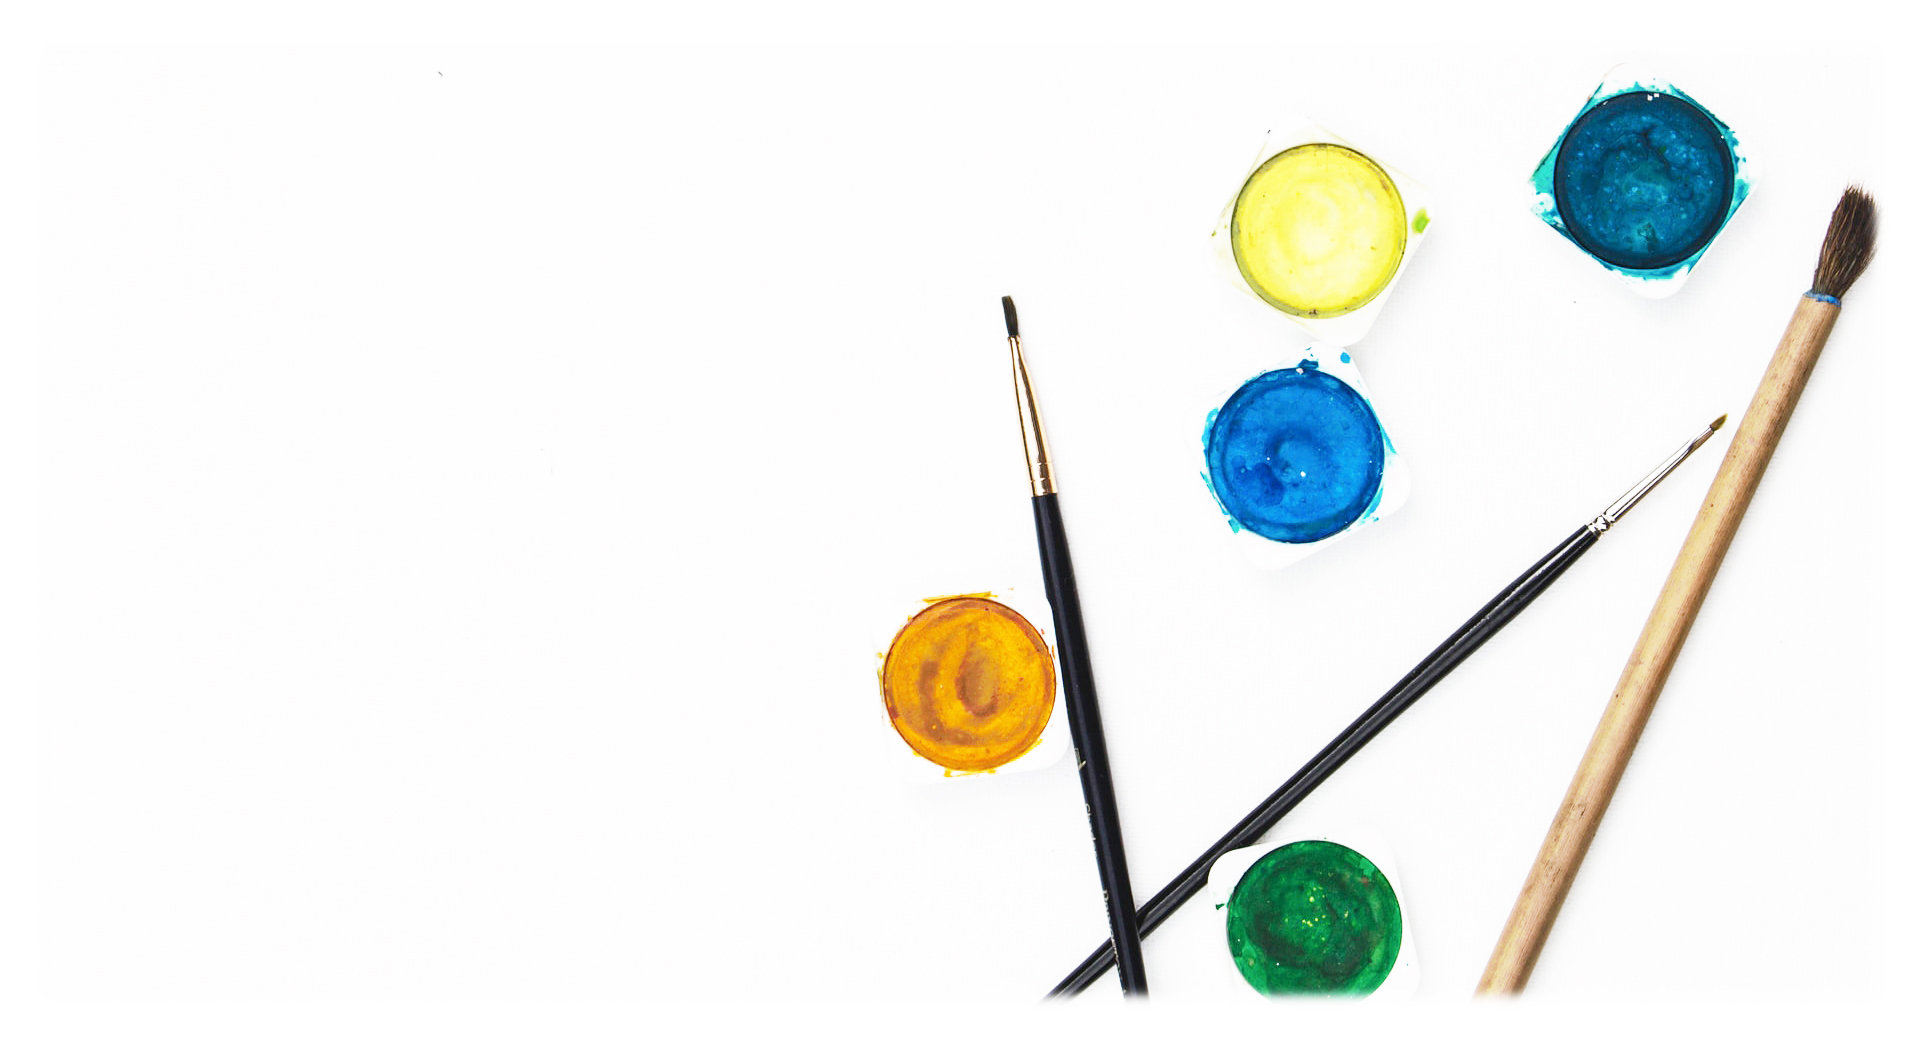
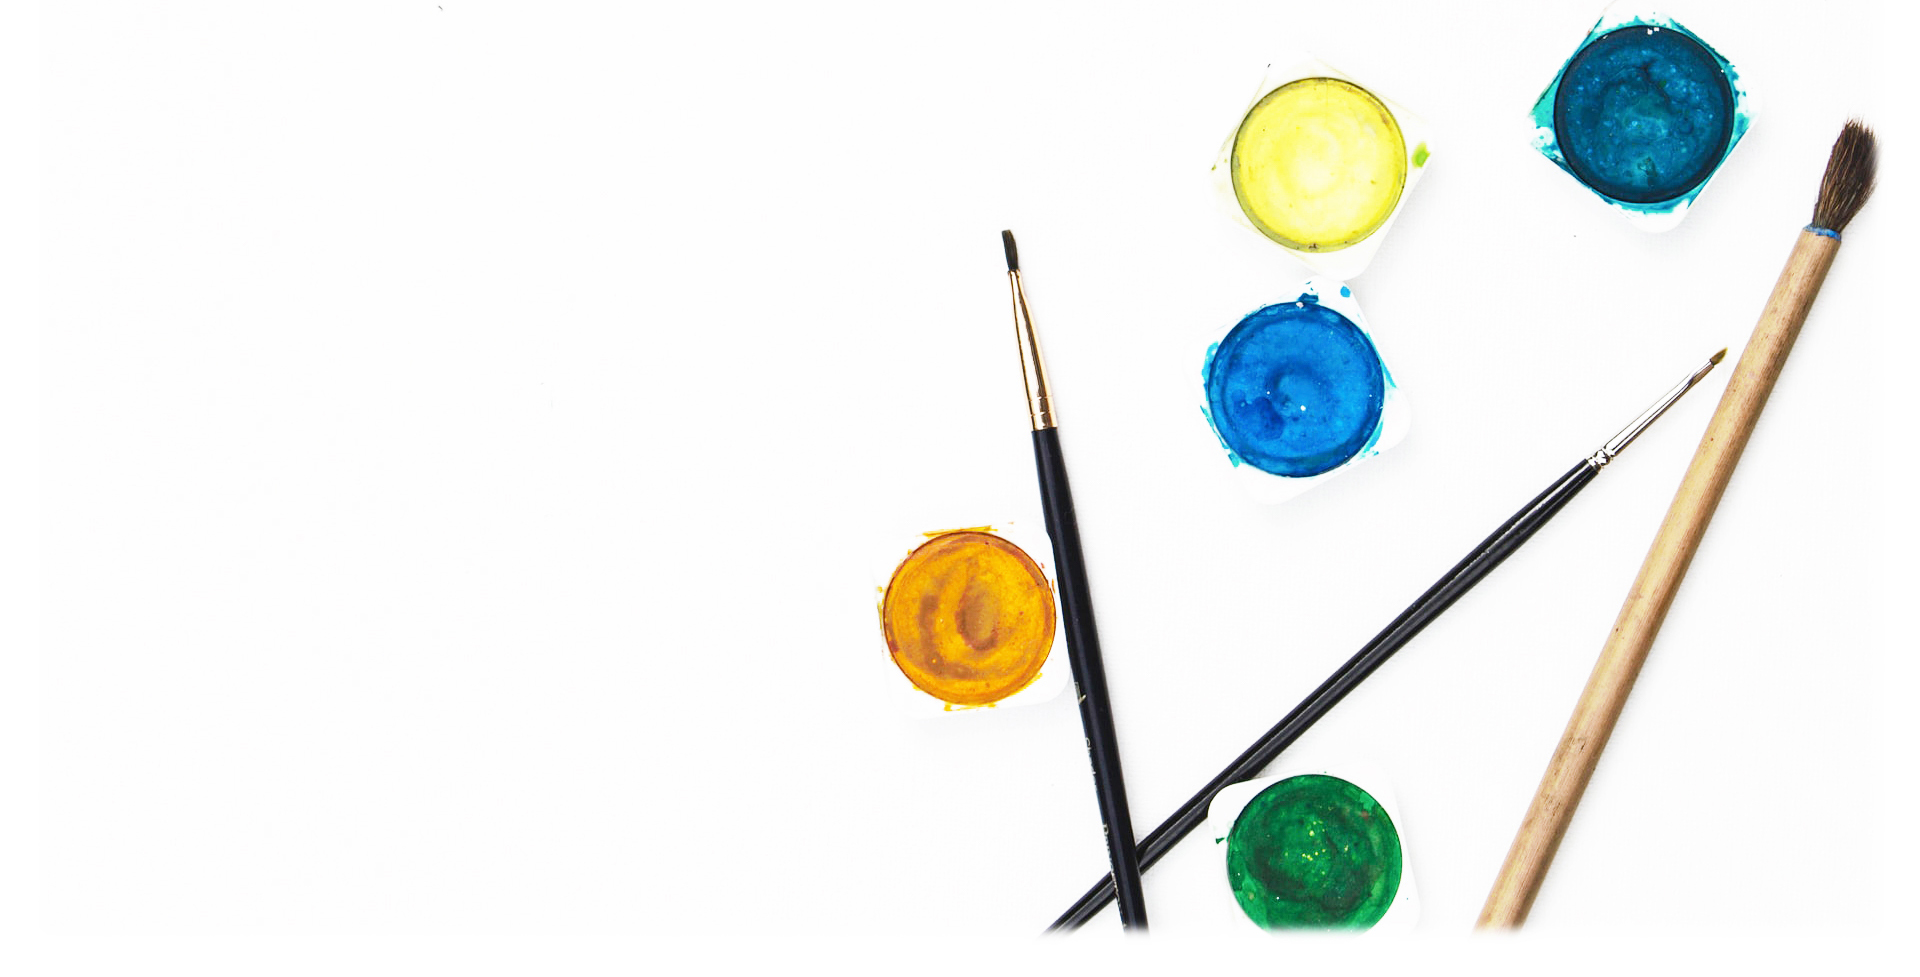
transtion,画像名修正

Changed region(s): [[0.4375, 0.0, 1.0, 0.9826], [0.625, 0.0614, 0.75, 0.522]]

diff --git a/css/style.css b/css/style.css
@@ -46,7 +46,7 @@ section {
     margin: 0 auto 4.166vw; 
     text-align: center;
     overflow: hidden;
-    transition: 1s;
+    transition: transform 1s;
     transition-delay: 0.2s;
     transform: scaleX(0);
 }
@@ -60,7 +60,7 @@ section {
     height: 100%;
     transform: translateX(-150%);
     transform-origin: left;
-    transition: 2s;
+    transition: transform 2s;
     transition-delay: 0s;
 }
 
@@ -496,7 +496,7 @@ sp
     height: 100%;
     border: thin solid #333;
     border-radius: 38% 62% 63% 37% / 41% 44% 56% 59%;
-    transition: 0.2s;
+    transition: background-color 0.2s;
 }
 
 .square > .content > span:nth-child(1) {
@@ -523,7 +523,7 @@ sp
 
 .active-hover .square:hover span {
     border: none;
-    background: rgba(12, 157, 176, 0.8);
+    background-color: rgba(12, 157, 176, 0.8);
 }
 
 .square > .content > .title, .square > .content > .text {
@@ -998,7 +998,7 @@ sp
     z-index: 1;
     margin: 0 auto;
     padding: 0.5em 4em;
-    border: 1px solid #537FBD;
+    border: 1px solid #c70024;
     box-shadow: 2px 2px 4px -2px rgba(128, 128, 128, 1) inset, -2px -2px 4px -2px gray inset;
     background: #fefeff;
     font-size: 2rem;
@@ -1022,7 +1022,7 @@ sp
     background: #c70024;
     transform: scaleX(0);
     transform-origin: left;
-    transition: 0.5s;
+    transition: transform 0.5s;
 }
 
 .active-hover .contact_btn:hover::before {

diff --git a/index.html b/index.html
@@ -62,7 +62,7 @@
         <!-- メイン -->
         <main>
             <div class="mainVisual">
-                <img src="img/main2.jpg" alt="筆と絵具" class="mainVisual_img">
+                <img src="img/main.jpg" alt="筆と絵具" class="mainVisual_img">
                 <div class="strokeText">
                     <svg version="1.1" id="レイヤー_1" xmlns="http://www.w3.org/2000/svg"
                         xmlns:xlink="http://www.w3.org/1999/xlink" x="0px" y="0px" viewBox="0 0 151.98 60.98"
